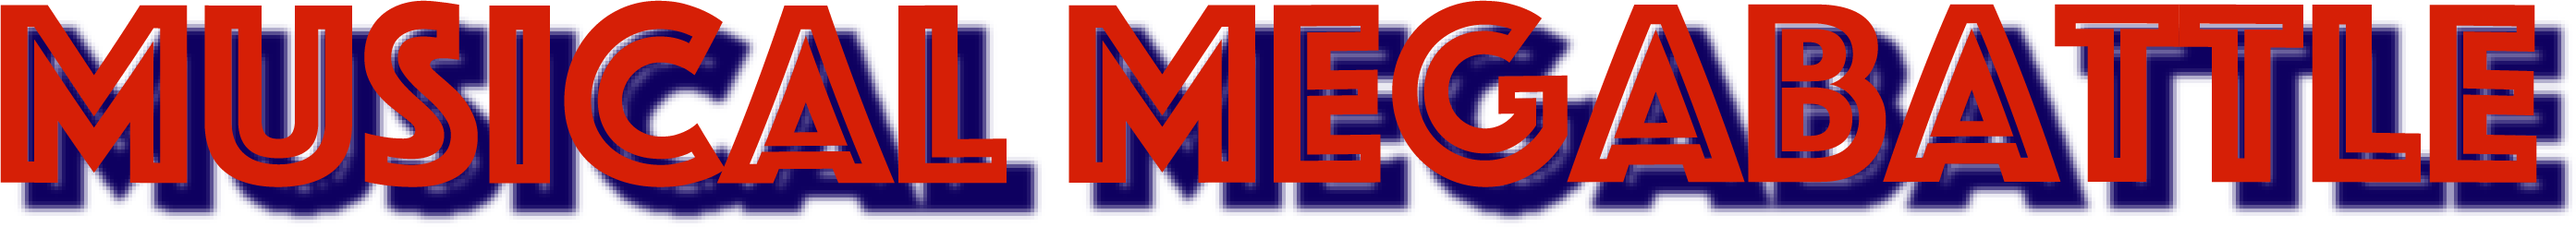
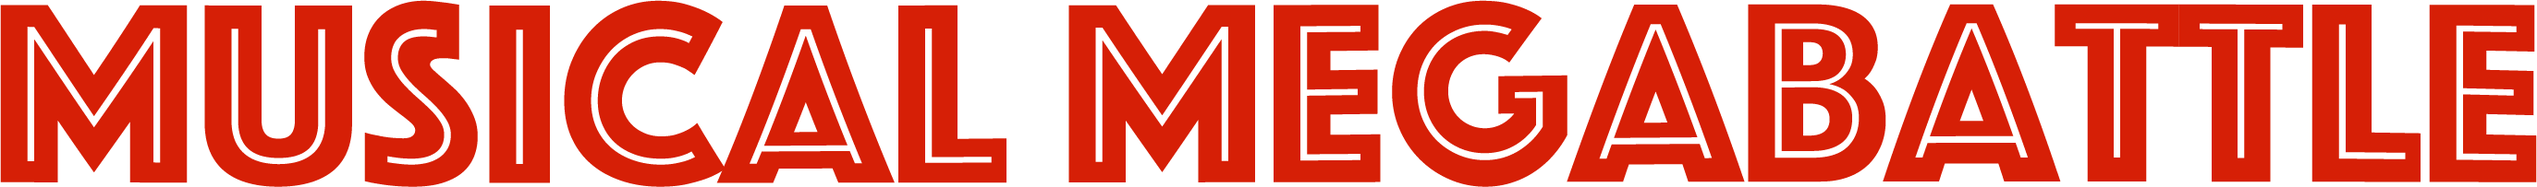
Style changes Translated from swedish to english Added (erroneous) cloud functions

diff --git a/functions/src/index.ts b/functions/src/index.ts
@@ -1,8 +1,100 @@
-import * as functions from 'firebase-functions';
+import * as admin from "firebase-admin";
+import {GuessState, MusicQuizGuess, PlayerStats, Track} from "./declarations";
 
-// // Start writing Firebase Functions
-// // https://firebase.google.com/docs/functions/typescript
-//
-// export const helloWorld = functions.https.onRequest((request, response) => {
-//  response.send("Hello from Firebase!");
-// });
+try {
+  admin.initializeApp();
+} catch (e) {
+}
+
+const functions = require('firebase-functions');
+const db = admin.firestore();
+//TODO Both functions get Cannot read property 'data' of undefined
+exports.musicQuizResetGuesses = functions.firestore
+  .document('musicquiz/current_track')
+  .onUpdate((event: { data: { data: () => Track; previous: { data: () => Track; }; }; }) => {
+
+    const newTrack = event.data.data();
+    const previousTrack = event.data.previous.data();
+
+    if (newTrack.name !== previousTrack.name
+      || newTrack.artist_id !== previousTrack.artist_id) {
+      const reference = db.collection('musicquiz').doc('guesses').collection('users');
+      const query = reference.orderBy('__name__');
+
+      return query.get()
+        .then((snapshot) => {
+
+          const batch = db.batch();
+          snapshot.docs.forEach((doc) => {
+            batch.set(doc.ref, {haveGuessed: false, guessWasCorrect: false});
+          });
+
+          batch.commit().catch(e => {
+            console.error(e);
+          })
+
+        });
+
+    } else {
+      return event;
+    }
+
+  });
+
+exports.musizQuizHandleGuess = functions.firestore
+  .document('musicquiz/guesses/users/{userId}')
+  .onUpdate((event: { data: { data: () => GuessState; }; params: { userId: any; }; }) => {
+
+    const guessState = event.data.data();
+    const userId = event.params.userId;
+    const historyRef = db.collection('musicquiz').doc('history').collection(userId);
+    let reward = 0;
+
+    if (guessState.guessWasCorrect) {
+
+      let playerStats: PlayerStats = musicQuizAddReward({points: 0, responses: 0, tens: 0}, guessState.reward);
+      const statsRef = db.collection('musicquiz').doc('scoreboard').collection('stats').doc(userId);
+      reward = guessState.reward;
+
+      statsRef.get()
+        .then(doc => {
+          if (doc.exists) {
+            playerStats = musicQuizAddReward(<PlayerStats>doc.data(), guessState.reward);
+            statsRef.update(playerStats).catch(e => {
+              console.error(e);
+            });
+          } else {
+            statsRef.set(playerStats).catch(e => {
+              console.error(e);
+            });
+          }
+        })
+        .catch(err => {
+          console.log(err);
+        });
+
+    }
+
+    guessState.reward = reward;
+
+    if (guessState.haveGuessed) {
+      const guess: MusicQuizGuess = {
+        guessDate: new Date(),
+        guessWasCorrect: guessState.guessWasCorrect,
+        reward: guessState.reward
+      };
+      return historyRef.add(guess);
+    } else {
+      return event;
+    }
+
+  });
+
+function musicQuizAddReward(playerStats: PlayerStats, reward: number): PlayerStats {
+  playerStats.points += reward;
+  playerStats.responses++;
+  if (reward === 10) {
+    playerStats.tens++;
+  }
+  return playerStats;
+}

diff --git a/src/app/components/music-quiz/music-quiz.component.html b/src/app/components/music-quiz/music-quiz.component.html
@@ -31,17 +31,16 @@
               <ng-template #easyGuess>
                 The songs is <span class="name">{{currentTrack.name}}</span>
                 <div class="reward-text">For <span class="reward-point">{{adjustReward(currentTrack.reward)}}</span>
-                  points: Who is the artist/group?
+                  point<span *ngIf="currentTrack.reward > adjustReward(currentTrack.reward)">s</span>: Who is the artist/group?
                 </div>
               </ng-template>
             </ng-template>
             <ng-template #unguessableBlock>
-              <p>Det här är <span class="name">{{currentTrack.name}}</span> med <span
+              <p>This is <span class="name">{{currentTrack.name}}</span> with <span
                 class="name">{{currentTrack.artist_name}}</span>.
               </p>
-              <p>Tyvärr gav inte Spotify tillräckligt med information om artisten för att ge rimliga
-                svarsalternativ.</p>
-              <p>Nästa låt kommer säkert funka bättre. Så keep your pants on shawty!</p>
+              <p>Unfortunately Spotify didn't provide enough information about the artist to produce reasonable response alternatives.</p>
+              <p>Next song will probably work better. So keep your pants on shawty!</p>
             </ng-template>
           </mat-card-content>
         </mat-card>
@@ -60,7 +59,7 @@
             <mat-icon aria-hidden="true">pause</mat-icon>
           </h1>
           <img class="decoration-image" mat-card-image src="../../assets/music-quiz/pause.jpg">
-          Tävlingen är för tillfället pausad.
+          The quiz is paused at the moment.
         </div>
       </ng-template>
 
@@ -73,22 +72,22 @@
         <ng-container
           *ngIf="guessState.guessWasCorrect; then guessWasCorrectBlock else guessWasIncorrectBlock"></ng-container>
         <ng-template #guessWasCorrectBlock>
-          <h3>Rätt!</h3>
+          <h3>Correctemundo!</h3>
           <div class="decoration-image" mat-card-image appBackgroundImage
                [artistImage]="currentArtistInformation.images[0]"></div>
-          <span class="name">{{currentTrack.artist_name}}</span> med <span
+          <span class="name">{{currentTrack.artist_name}}</span> with <span
           class="name">{{currentTrack.name}}</span>
         </ng-template>
         <ng-template #guessWasIncorrectBlock>
-          <h3>Det var tyvärr fel…</h3>
+          <h3>That's not it at all…</h3>
           <div class="decoration-image" mat-card-image appBackgroundImage
                [artistImage]="currentArtistInformation.images[0]"></div>
-          Rätt svar är <span class="name">{{currentTrack.artist_name}}</span> (med <span
+          The correct answer is <span class="name">{{currentTrack.artist_name}}</span> (with <span
           class="name">{{currentTrack.name}}</span>)
         </ng-template>
       </div>
       <div *ngIf="playerStats" class="music-quiz-stats-card">
-        Du har totalt: <span class="points">{{playerStats.points}} poäng</span>
+        Your total score is: <span class="points">{{playerStats.points}} point<span *ngIf="playerStats.points > 1">s</span></span>
       </div>
     </ng-template>
   </ng-container>

diff --git a/src/app/components/music-quiz/music-quiz.component.ts b/src/app/components/music-quiz/music-quiz.component.ts
@@ -82,7 +82,7 @@ export class MusicQuizComponent implements OnInit {
     statsReference.ref.get()
       .then(doc => {
         if (!doc.exists) {
-          docReference.set({points: 0, responses: 0, tens: 0});
+          statsReference.set({points: 0, responses: 0, tens: 0});
         }
       }).then(() => this.fetchPlayerStats());
 

diff --git a/src/app/components/music-quiz/music-quiz.component.scss b/src/app/components/music-quiz/music-quiz.component.scss
@@ -26,3 +26,11 @@
 .header-image {
   opacity: 0.7;
 }
+
+.name {
+  font-weight: bold;
+}
+
+.decoration-image {
+
+}
